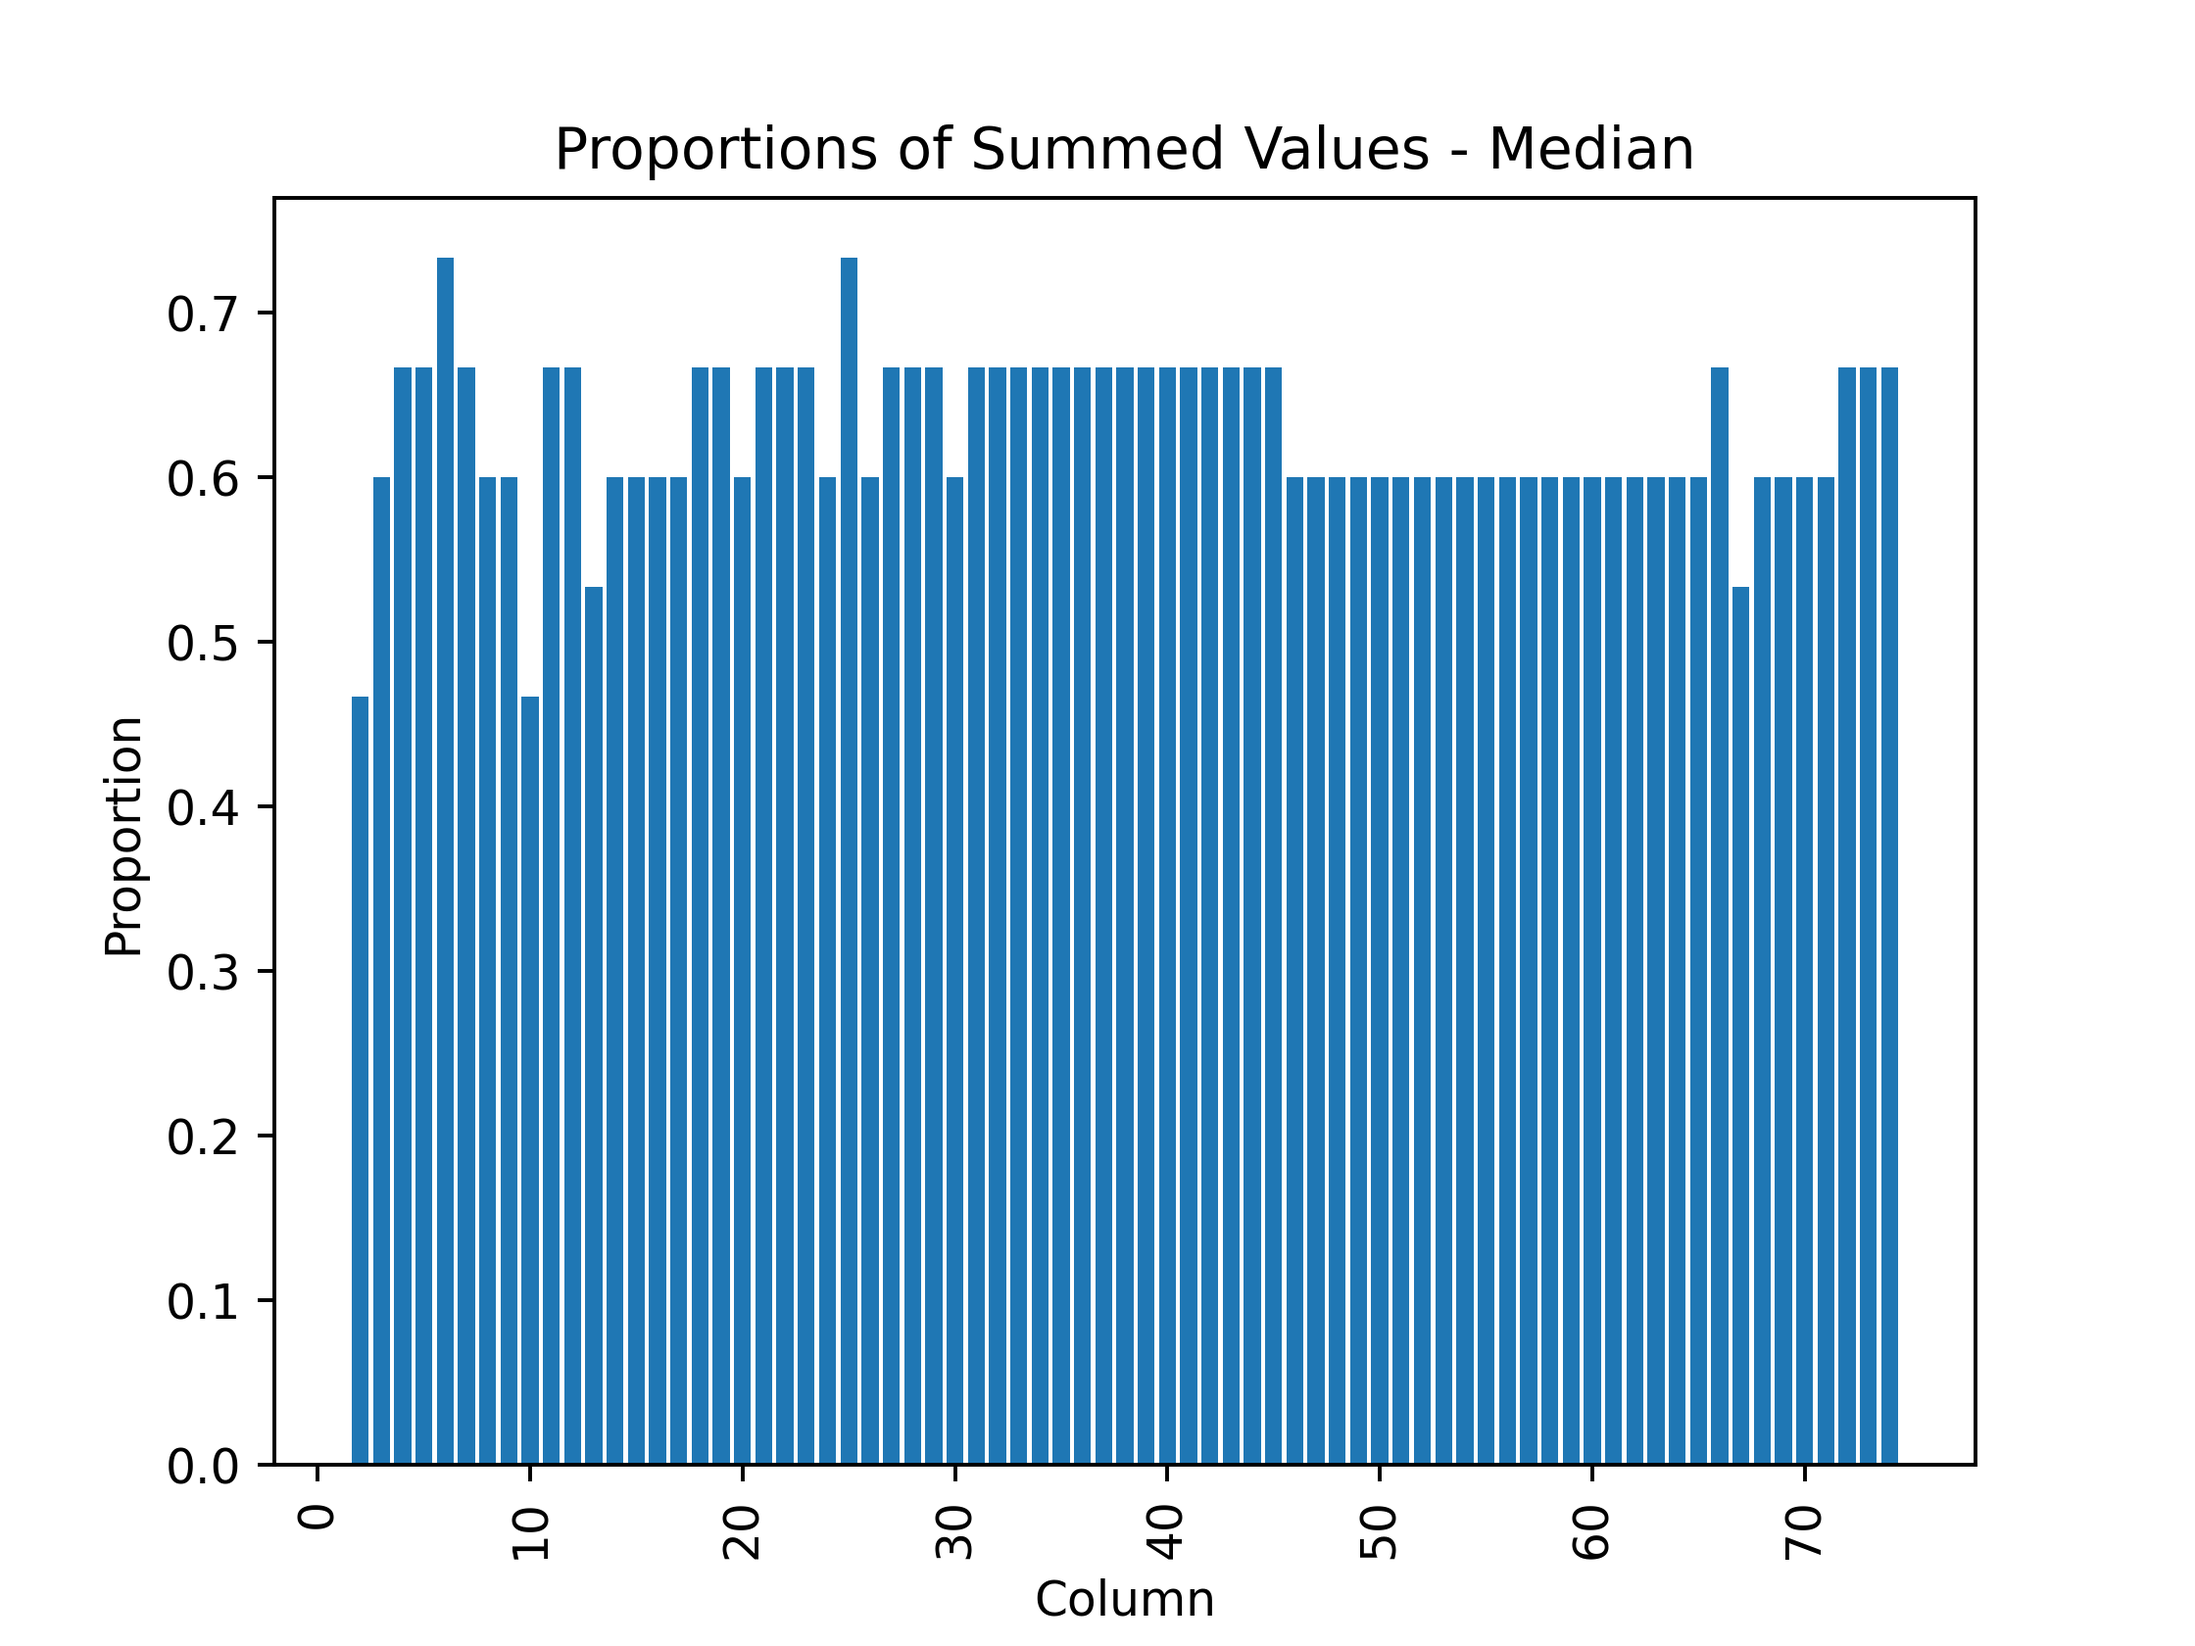
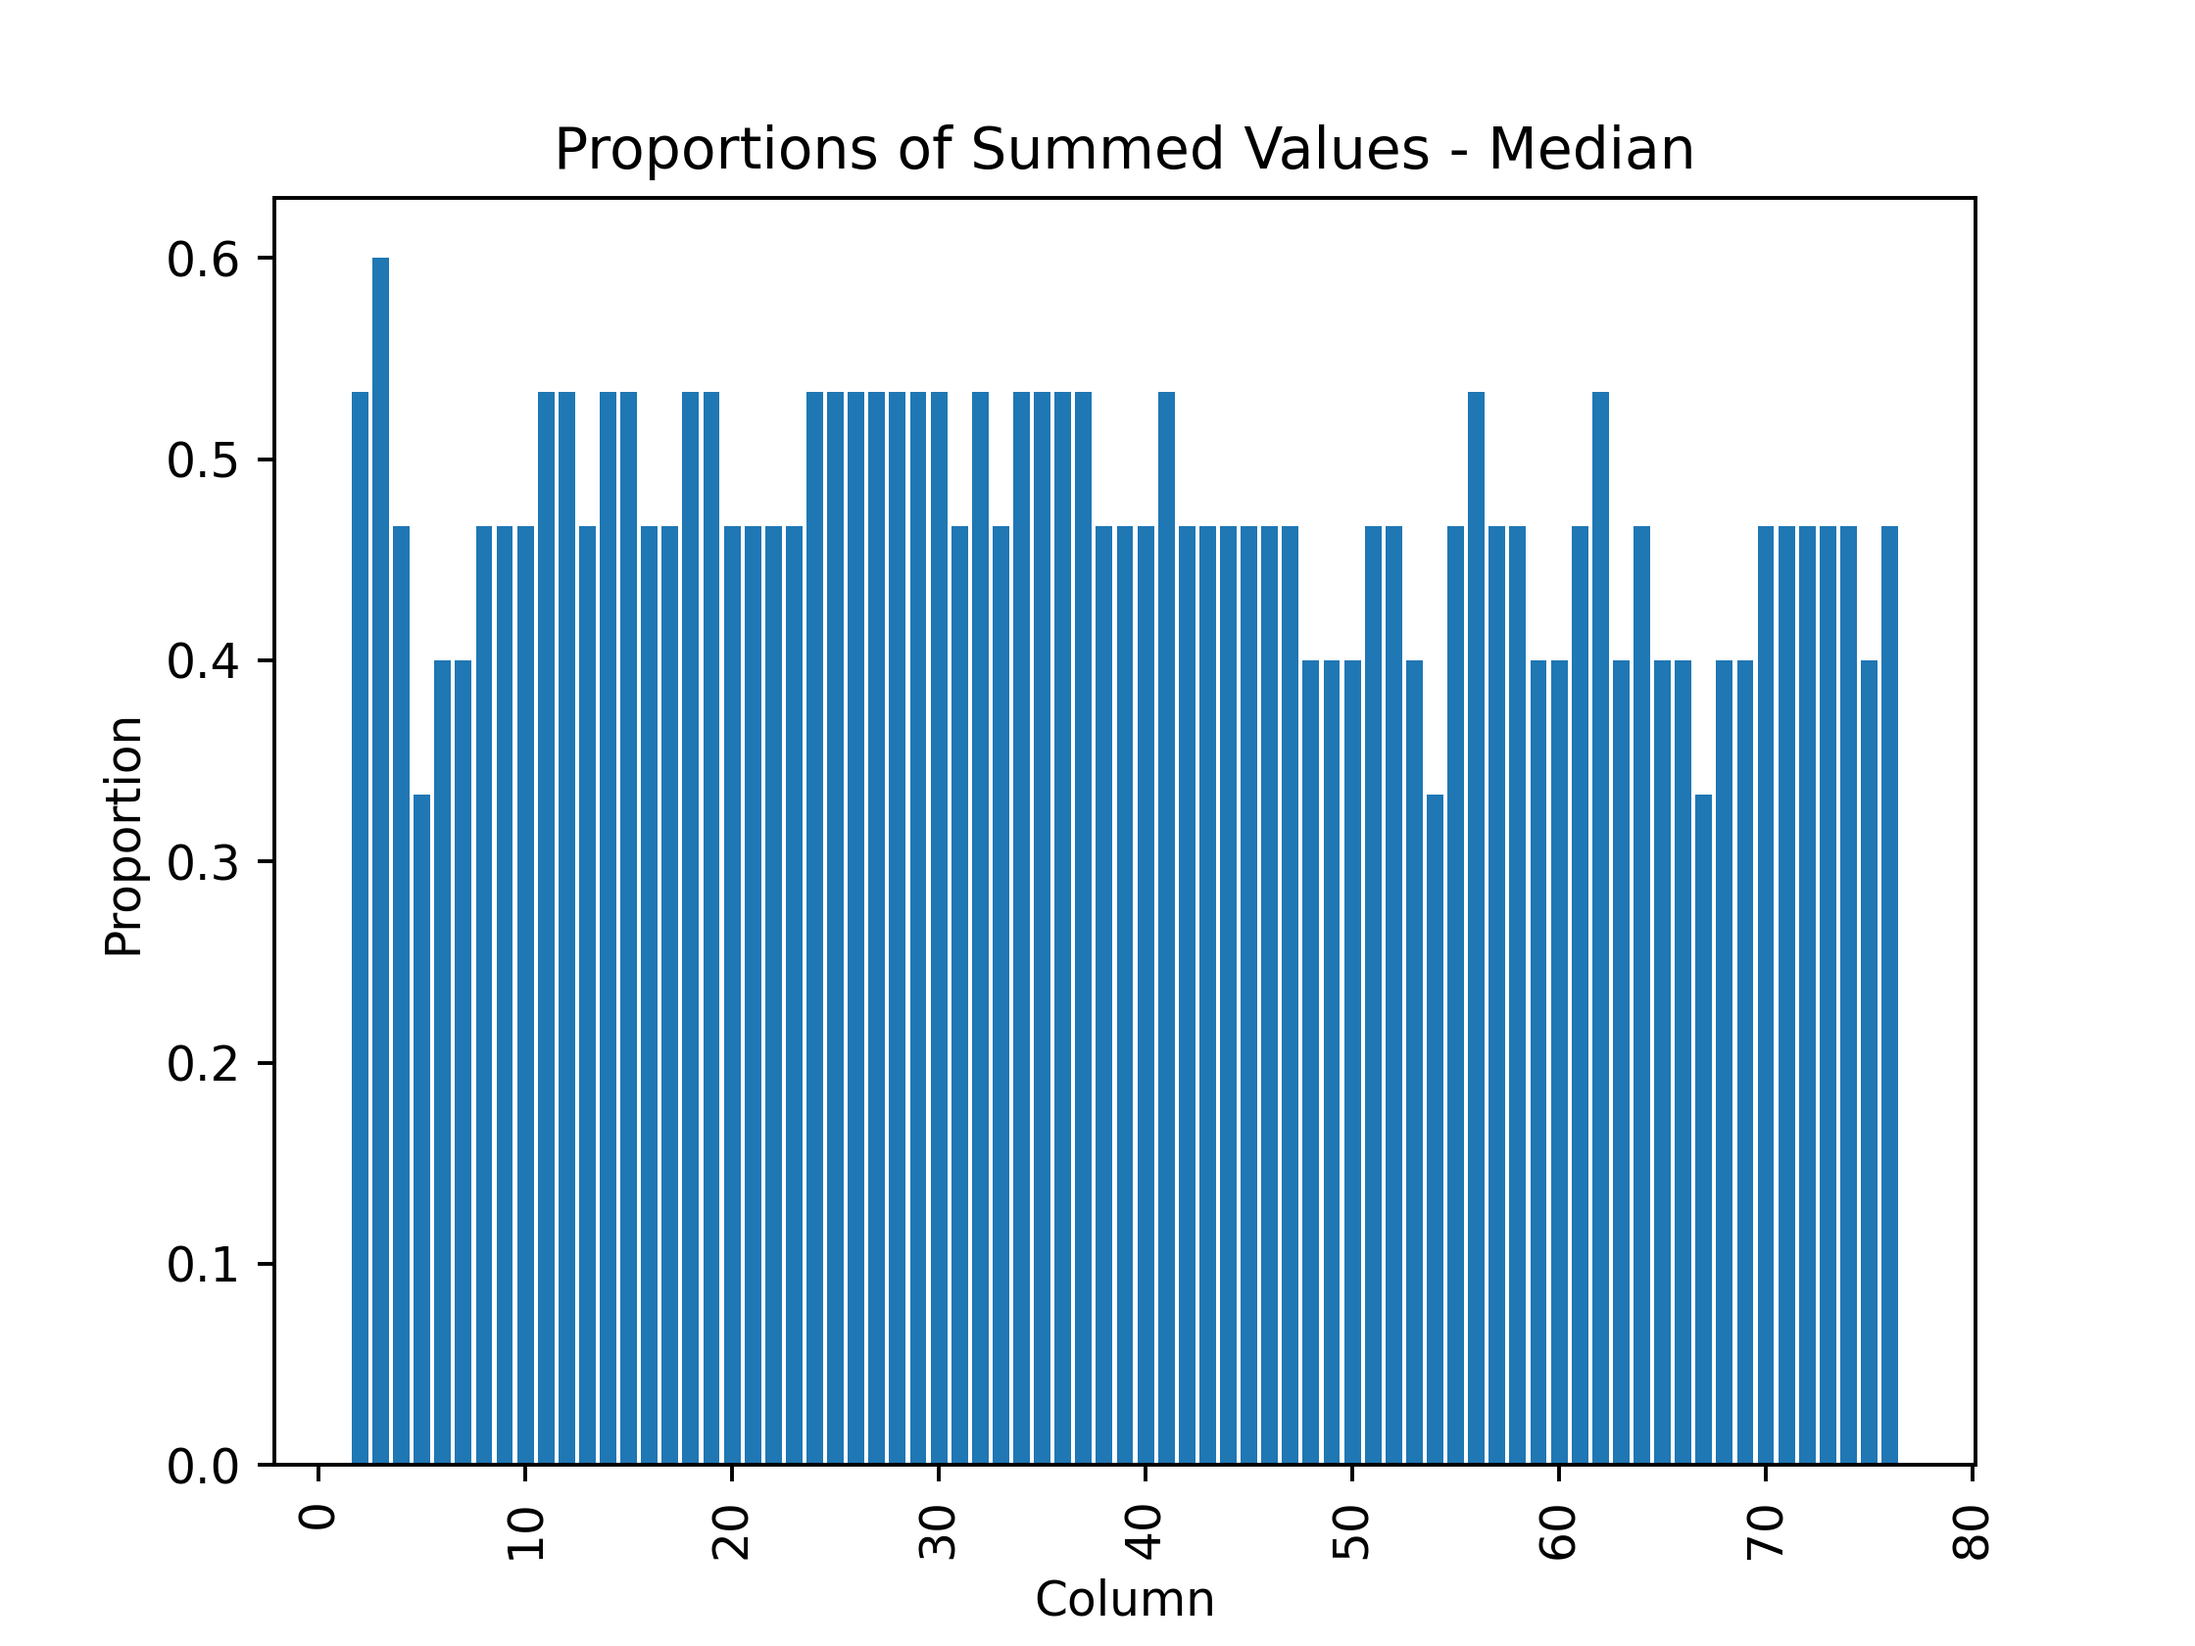
ADD: ability to get running medians for each teams

diff --git a/mlb_ml_classify_deep_learn_test.py b/mlb_ml_classify_deep_learn_test.py
@@ -28,6 +28,9 @@ from keras.callbacks import TensorBoard, EarlyStopping
 import seaborn as sns
 from sklearn.decomposition import PCA
 import warnings
+import os
+import yaml
+from collections import Counter
 
 # Ignore the warning
 warnings.filterwarnings("ignore")
@@ -321,14 +324,14 @@ class mlbDeep():
             team_1_pred_regress = []
             team_2_pred_regress = []
             median_bool = True
-            ma_range = [6]
+            ma_range = [3]
             for ma in tqdm(ma_range):
                 if median_bool == True:
                     data1_mean = team_1_df2023.rolling(ma).median()
                     data2_mean = team_2_df2023.rolling(ma).median()
                     #regress
-                    data1_mean_regress = team_1_df2023_regress.rolling(9).median()
-                    data2_mean_regress = team_2_df2023_regress.rolling(9).median()
+                    data1_mean_regress = team_1_df2023_regress.rolling(3).median()
+                    data2_mean_regress = team_2_df2023_regress.rolling(3).median()
                 else:
                     data1_mean = team_1_df2023.ewm(span=ma,min_periods=ma-1).mean()
                     data2_mean = team_2_df2023.ewm(span=ma,min_periods=ma-1).mean()
@@ -529,12 +532,93 @@ class mlbDeep():
         #     sleep(4) #I get get banned for a small period of time if I do not do this
         # final_test_data = concat(final_list)
 
+    def test_each_team(self):
+        model = keras.models.load_model('deep_learning_mlb_class_test.h5')
+        # model_regress = keras.models.load_model('deep_learning_mlb_regress_test.h5')
+        # final_df_mean = DataFrame()
+        # final_df_median = DataFrame()
+        final_dict = {}
+        for abv in tqdm(sorted(self.teams_abv)):
+            # try:
+            print() #tqdm things
+            print(f'current team: {abv}, year: {2023}')
+            df_inst = web_scrape_mlb.get_data_team(abv,2023)
+            for col in df_inst.columns:
+                df_inst[col].replace('', np.nan, inplace=True)
+                df_inst[col] = df_inst[col].astype(float)
+            #Actual
+            df_inst.dropna(inplace=True)
+            game_result_series = df_inst['game_result']
+            df_inst.drop(columns=self.drop_cols_manual,inplace=True)
+            range_data = np.arange(2,25)
+            per_team_best_rolling_vals = []
+            
+            #iterate over every game 
+            num_iter = 0
+            for game in range(range_data[-1],len(df_inst)-1):
+                ground_truth = game_result_series.iloc[game+1]
+                dict_range_median = {}
+                for roll_val in range_data:
+                    data1_median = df_inst.iloc[0:game].rolling(roll_val).median()
+                    X_std_1 = self.scaler.transform(data1_median.iloc[-1:])
+                    X_pca_1 = self.pca.transform(X_std_1)
+                    team_1_df2023 = DataFrame(X_pca_1, columns=[f'PC{i}' for i in range(1, self.pca.n_components_+1)])
+                    prediction_median = model.predict(team_1_df2023.iloc[-1:])
+                    if prediction_median[0][0] > 0.5:
+                        result_median = 1
+                    else:
+                        result_median = 0
+                    if int(ground_truth) == result_median:
+                        range_median = 1
+                    else:
+                        range_median = 0
+                    dict_range_median[roll_val] = [range_median]
+                num_iter += 1
+                #extract keys that have a value of 1 
+                keys_with_value_one = [key for key, value in dict_range_median.items() if value == [1]]
+                per_team_best_rolling_vals.append(keys_with_value_one)
+            #remove empty sublists and combine into one list
+            merged_list = [item for sublist in per_team_best_rolling_vals if sublist for item in sublist]
+            print(f'Total number of games: {num_iter}')
+            plt.figure()
+            plt.hist(merged_list, bins=range(min(merged_list), max(merged_list)+2), rwidth=0.8, align='left')
+            plt.xlabel('Value')
+            plt.ylabel('Frequency')
+            plt.title(f'{abv} Histogram. total games: {num_iter}')
+            plt.xticks(range(min(merged_list), max(merged_list)+1))
+            for rect in plt.gca().patches:
+                x = rect.get_x() + rect.get_width() / 2
+                y = rect.get_height()
+                plt.gca().annotate(f'{round(y/num_iter,2)}', (x, y), ha='center', va='bottom')
+            plt.savefig(os.path.join(os.getcwd(),'histogram_teams',f'{abv}_hist.png'),dpi=300)
+            plt.close()
+
+            #write best value to file
+            counter = Counter(merged_list)
+            most_frequent_value = counter.most_common(1)[0][0]
+            # best_value_dict = {f'{abv}': [most_frequent_value]}
+
+            # # Read existing data from the YAML file
+            # try:
+            #     final_df_median = read_csv('best_values.csv')
+            # except FileNotFoundError:
+            #     pass
+            # # Update existing data with new data
+            # final_df_median = concat([final_df_median, DataFrame(best_value_dict)])
+            # # Write the updated data to the YAML file
+            # final_df_median.to_csv('best_values.csv',index=False)
+            final_dict[abv] = int(most_frequent_value)
+        with open('best_values.yaml', 'w') as file:
+            yaml.dump(final_dict, file)
+            
+
 
     def run_analysis(self):
         if argv[1] == "test":
             self.get_teams()
             self.split()
-            self.test_ma()
+            # self.test_ma()
+            self.test_each_team()
         else:
             self.get_teams()
             self.split()
